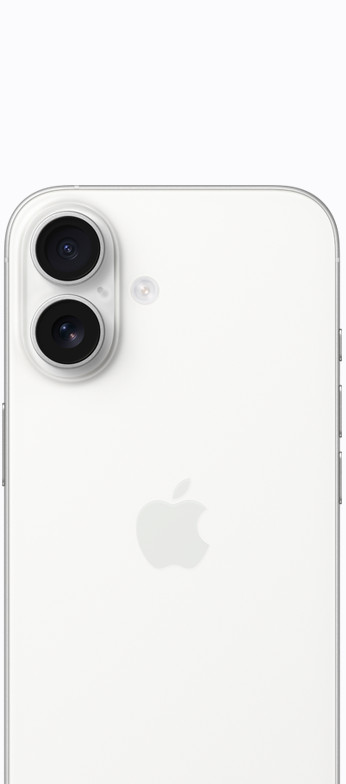
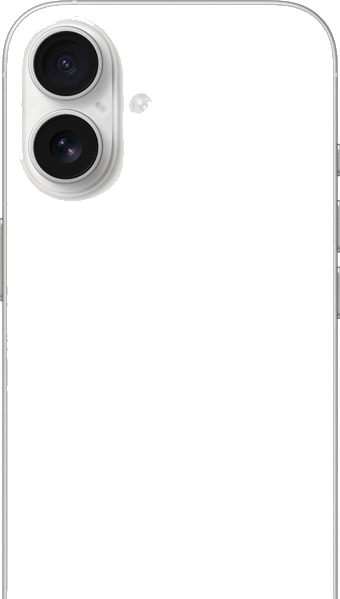
Fix HEY Market demo product cards and cut out photo backgrounds
- Product photos now sit inside a fixed frame instead of overflowing the card
- Removed flat backgrounds from product photos so only the device shows
- Converted the Hollyland photo to WebP to bring it under the size guideline

Claude-Session: https://claude.ai/code/session_01MgVBX9tzt5J8yG87Dz1YVT

diff --git a/public/demos/hey-market/index.html b/public/demos/hey-market/index.html
@@ -120,9 +120,9 @@ html[lang=am] .welcome h1{letter-spacing:0;line-height:1.3}
 .updated{font-size:13px;color:var(--muted)}
 .grid{display:grid;grid-template-columns:repeat(auto-fill,minmax(158px,1fr));gap:12px;padding:12px 0 40px}
 .card{border:1px solid var(--line);border-radius:18px;padding:12px;display:flex;flex-direction:column;gap:10px;background:#fff}
-.art{background:var(--soft);border-radius:14px;height:120px;display:grid;place-items:center}
+.art{background:var(--soft);border-radius:14px;height:120px;position:relative;overflow:hidden}
 .art svg{height:90px}
-.art img{height:100%;width:100%;object-fit:contain;padding:8px;mix-blend-mode:multiply}
+.art img{position:absolute;inset:10px;width:calc(100% - 20px);height:calc(100% - 20px);max-width:none;object-fit:contain}
 .spot img{height:calc(var(--h)*.24);width:auto;max-width:calc(var(--w)*.2);object-fit:contain;filter:drop-shadow(0 18px 18px rgba(0,0,0,.35))}
 .badges{display:flex;gap:6px;flex-wrap:wrap}
 .b{font-size:11px;font-weight:800;letter-spacing:.04em;text-transform:uppercase;border-radius:6px;padding:3px 7px;background:#eafaf0;color:var(--ok)}
